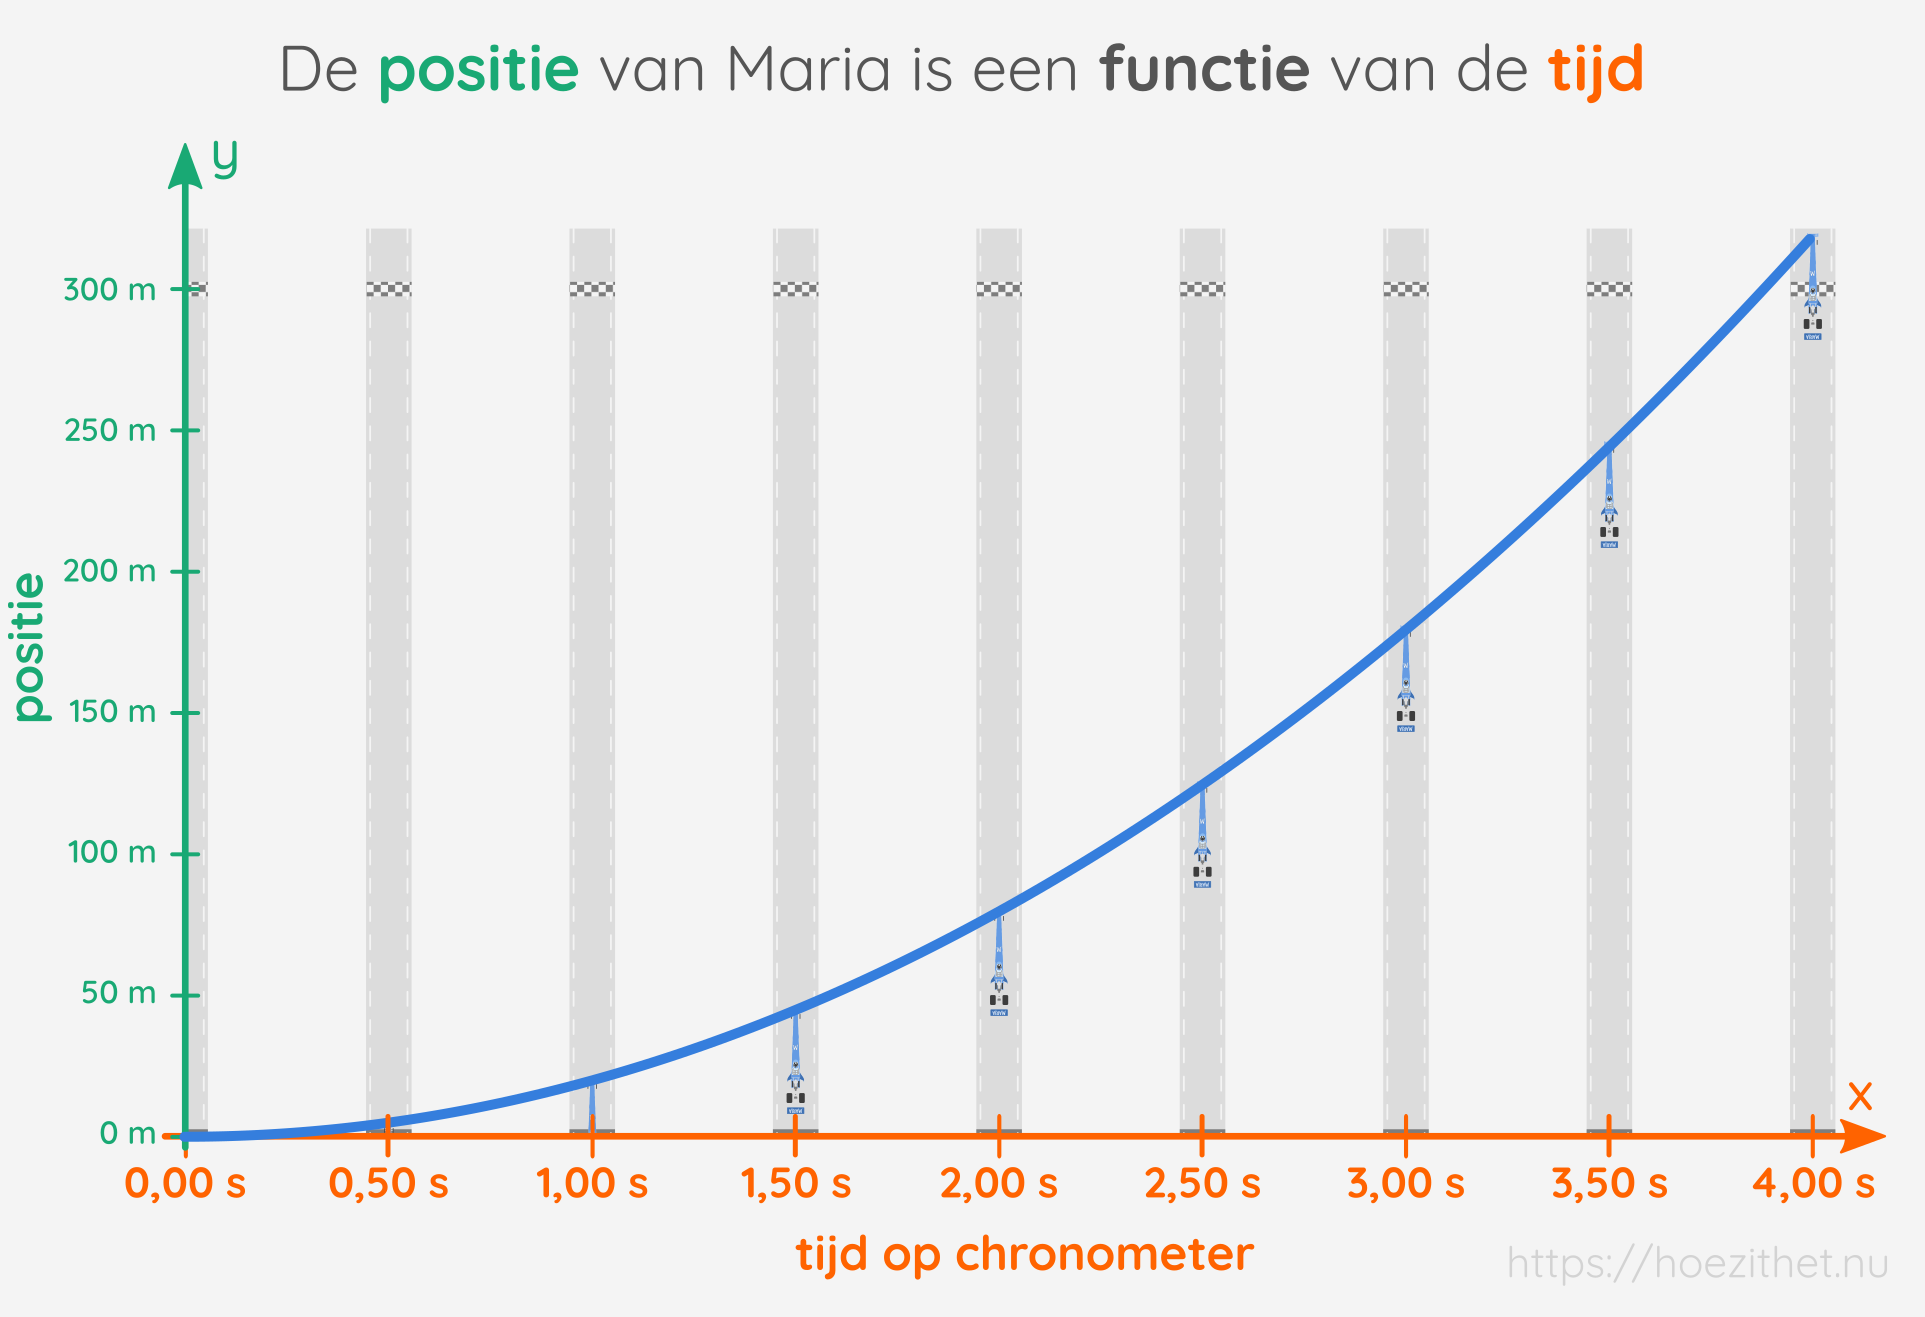
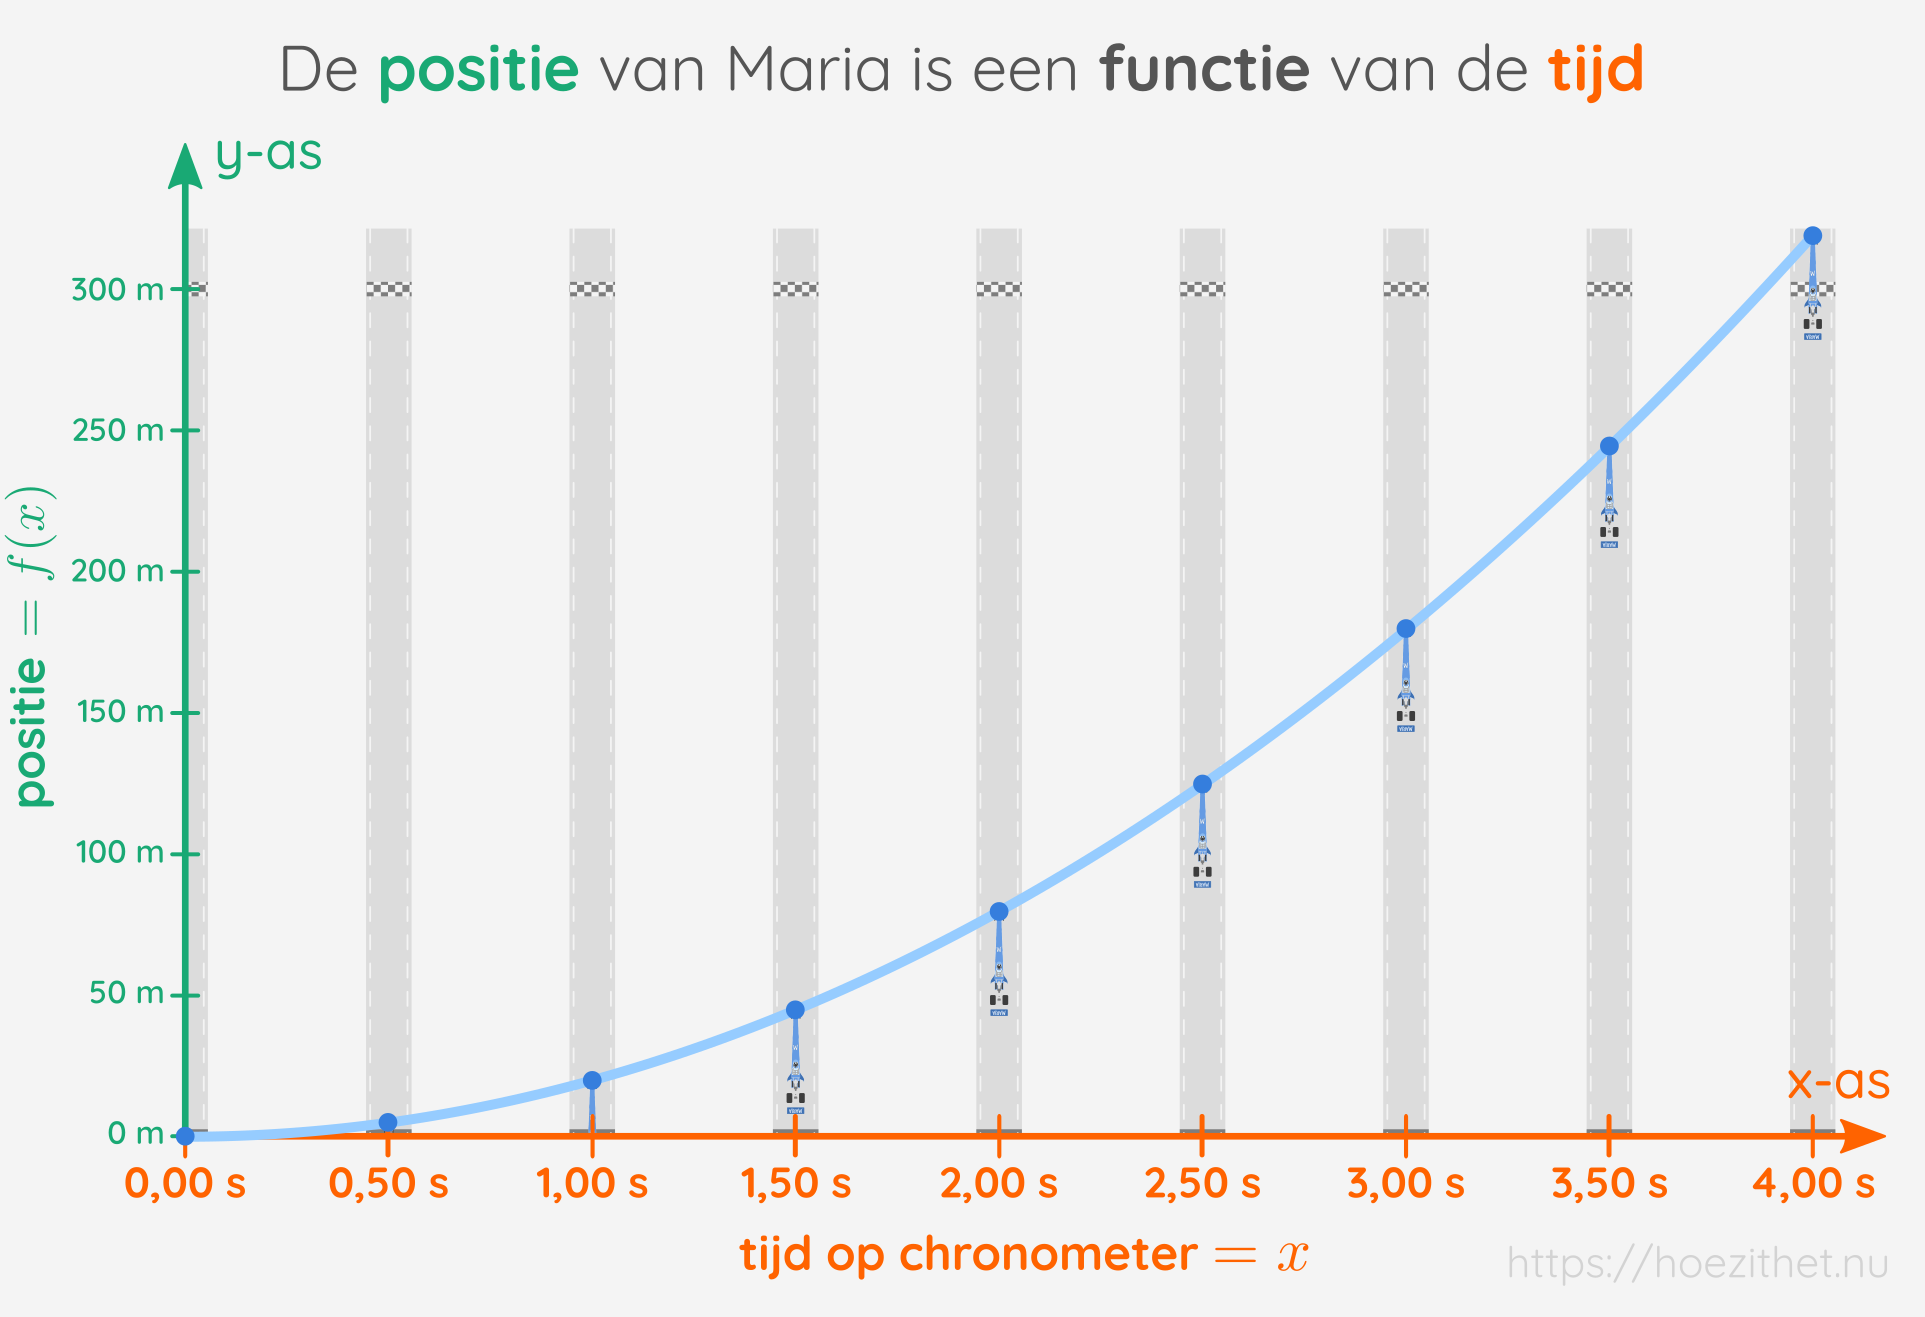
update afgeleiden_1/differentiequotient

diff --git a/content/lessen/wiskunde/afgeleiden_1/differentiequotient/index.md b/content/lessen/wiskunde/afgeleiden_1/differentiequotient/index.md
@@ -84,10 +84,12 @@ Maria's **positie een functie is van de tijd**.
 {{< mute "(zoals positie en tijd)" >}} een functie is, kan je altijd onze
 [les over functies](../../functies/intro) eens nalezen. 
 
-We kunnen de **positie** die
-overeenkomt met tijdstip $\orange{x}$ dus **de functiewaarde van $\orange{x}$** noemen en afkorten als $\green{f(x)}$. Op de
-luchtfoto's zien we inderdaad dat de posities mooi de [grafiek van een
-functie](../../functies/grafiek) volgen:
+We kunnen de **positie** die overeenkomt met tijdstip $\orange{x}$ dus **de
+functiewaarde van $\orange{x}$** noemen en afkorten als $\green{f(x)}$. Wanneer
+we op de luchtfoto's de racewagens met elkaar verbinden, zien we inderdaad dat
+de posities mooi de [grafiek van een functie](../../functies/grafiek) volgen
+waarbij de **tijd op de x-as** {{< mute "(horizontale as)" >}} staat en de
+**positie op de y-as** {{< mute "(verticale as)" >}}:
 
 {{< svg "img/maria_race_function.svg" "De positie van Maria als functie van de tijd" >}}
 
@@ -102,8 +104,16 @@ Zo krijgen we:
 
 $$\frac{\green{f(x\_2)} - \green{f(x\_1)}}{\orange{x\_2} - \orange{x\_1}}$$
 
-* In de teller {{< mute "(boven)" >}} staat $\green{f(x\_2)} - \green{f(x\_1)}$. Daarmee berekenen we het verschil van de functiewaarden van $x\_2$ en $x\_1$. **De teller zegt zo hoeveel de functiewaarde is veranderd** tussen $x\_1$ en $x\_2$. Bij de dragrace stond daar het verschil in posities. 
-* In de noemer {{< mute "(onder)" >}} staat dan weer het verschil van die $x\_2$ en $x\_1$ zélf. Door te delen door $\orange{x\_2} - \orange{x\_1}$ berekenen we de "**gemiddelde** verandering van  de functiewaarde **per $x-$eenheid** {{< mute "(bv. per seconde)" >}} tussen $x\_1$ en $x\_2$" in plaats van gewoon de "verandering van  de functiewaarde tussen $x\_1$ en $x\_2$".
+* In de teller {{< mute "(boven)" >}} staat $\green{f(x\_2)} -
+  \green{f(x\_1)}$. Daarmee berekenen we het verschil van de functiewaarden van
+  $x\_2$ en $x\_1$. **De teller zegt zo hoeveel de functiewaarde is veranderd**
+  tussen $x\_1$ en $x\_2$.
+* In de noemer {{< mute "(onder)" >}} staat dan weer het verschil van die
+  $x\_2$ en $x\_1$ zélf. Door te delen door $\orange{x\_2} - \orange{x\_1}$
+  berekenen we de "**gemiddelde** verandering van  de functiewaarde **per
+  $x-$eenheid** {{< mute "(bv. per seconde)" >}} tussen $x\_1$ en $x\_2$" in
+  plaats van gewoon de "verandering van  de functiewaarde tussen $x\_1$ en
+  $x\_2$".
 
 {{< expand "Waarom zorgt die deling door $\orange{x_2} - \orange{x_1}$ voor een gemiddelde?" >}}
 Stel dat je de **gemiddelde** score wilt berekenen die de leerlingen van een bepaalde klas haalden op een test. Dan ga je alle punten optellen en **delen door het totaal aantal testen**. Door te delen door het totaal aantal testen, krijg je de gemiddelde score **per test**.
@@ -132,11 +142,51 @@ naam vandaan? Het woord bestaat uit twee stukken:
 
 ## Voorbeelden met het differentiequotiënt
 
-Wanneer kan het berekenen van de *gemiddelde verandering* van een functie en dus het **differentiequotiënt** van pas komen? In deze paragraaf geven we enkele voorbeelden.
+Wanneer kan het berekenen van de *gemiddelde verandering* van een functie en
+dus het **differentiequotiënt** nu van pas komen? In deze paragraaf geven we
+enkele concrete voorbeelden.
 
-### Gemiddelde snelheid tijdens een dragrace
+### Gemiddelde winst per dag
 
-Met dit voorbeeld zijn we de les begonnen.
+Ronny baat een online snoepwinkel uit.
+
+(illustratie)
+
+Voor de maand april heeft hij een overzicht van het saldo dat elke dag op de
+rekening van zijn webwinkel stond. Met andere woorden kennen we het **saldo in
+functie van de tijd**. Voor een bepaalde dag $\orange{x}$ kunnen we het saldo
+$\green{f(x)}$ vinden dat op die dag op de rekening van Ronny's snoepwinkel
+stond.
+
+(illustratie)
+
+Wat betekent het wanneer we nu het differentiequotiënt zouden berekenen?
+We kiezen bijvoorbeeld als $\orange{x\_1} = \orange{5~\text{april}}$ en als
+$\orange{x\_2} = \orange{12~\text{april}}$.
+
+(illustratie)
+
+In de teller {{< mute "(boven)" >}} berekenen we het verschil van het saldo op 12 april en het saldo
+op 5 april. In de noemer berekenen we hoeveel dagen er zaten tussen 5 en 12
+april. Met het differentiequotiënt berekenen we in dit geval dus **hoeveel het
+saldo gemiddeld is veranderd tussen 5 en 12 april**.
+
+Positief differentiequotiënt: winst. Negatief differentiequotiënt: verlies.
+
+### Gemiddelde helling
+van een berg wanneer de hoogte in functie van de positie is gegeven
+
+### Gemiddelde snelheid
+
+Met dit voorbeeld zijn we de les begonnen. We gaan het hier even herhalen, maar
+nu vertrekkend van een functievoorschrift. Stel dat Maria's positie in functie
+van de tijd het volgende voorschrift volgt:
+
+$$\green{f(x)} = \green{20\cdot x^2}$$
+
+Wanneer $\green{f(x)}$ de positie in functie van de tijd is, berekenen we met
+het differentiequotiënt de **gemiddelde snelheid** tussen tijdstippen
+$\orange{x\_1}$ en $\orange{x\_2}$.
 
 Samengevat zegt onze formule:
 
@@ -155,19 +205,6 @@ de analogie met de dragrace van Maria:
 * Wat betekent de verandering van de functiewaarde?
 * Wat betekent de x-eenheid?
 * Wat betekent de verandering van de functiewaarde per x-eenheid?
-
-### Gemiddelde winst per dag
-
-Ronny, bijvoorbeeld, heeft een overzicht van hoeveel geld er elke dag op de rekening stond van zijn winkel Ronny's Candy Paradise. In dat geval is $\green{f(x)}$ het bedrag dat op dag $\orange{x}$ op de rekening van Ronny's Candy Paradise stond. 
-
-(illustratie)
-
-Als we als $\orange{x\_1}$ 1 mei en als $\orange{x\_2}$ 31 mei kiezen, dan berekenen we met de formule voor gemiddelde verandering hoeveel het kapitaal van Ronny's Candy Paradise gemiddeld per dag veranderde in de maand mei.
-
-(illustratie)
- 
-
-### Gemiddelde helling van een berg
 
 
 ## Het verschil afkorten met $\Delta$
